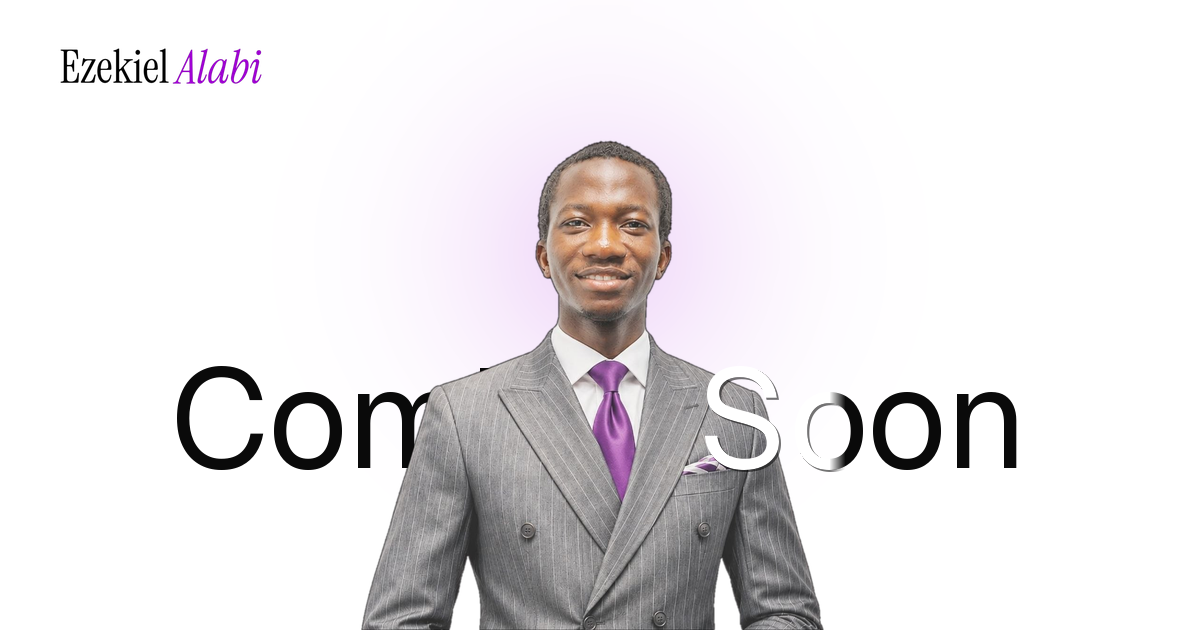
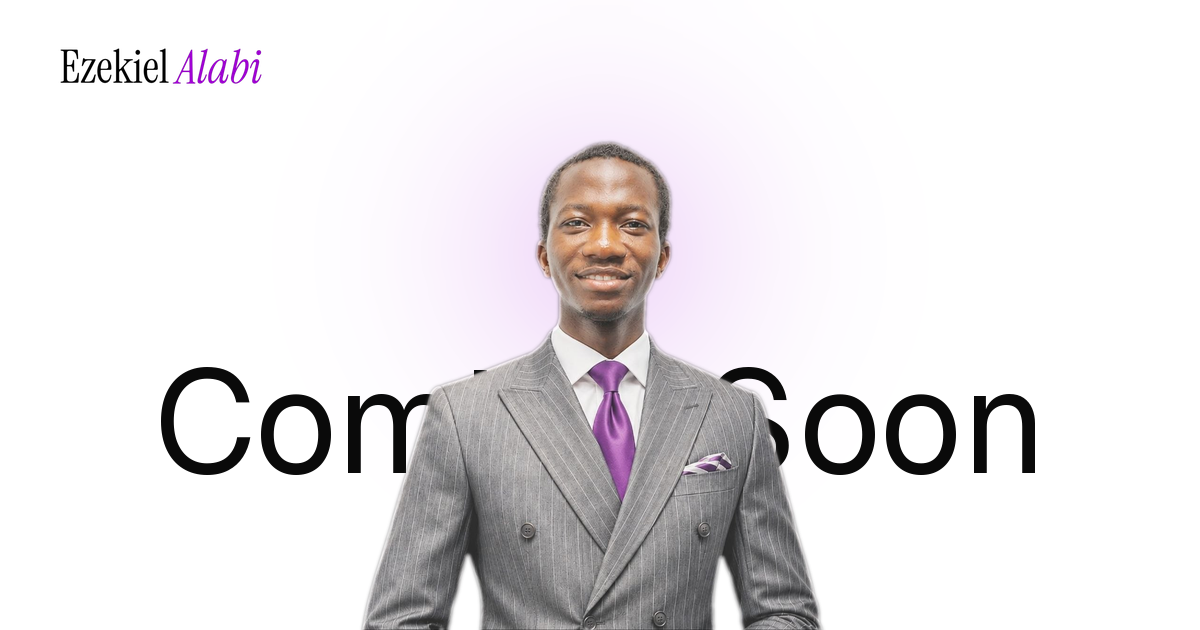
feat: de-fringe and blend portrait seamlessly into background, and set Coming Soon headline in all black behind subject

diff --git a/app/globals.css b/app/globals.css
@@ -72,7 +72,7 @@ body {
   justify-content: center;
 }
 
-/* Atmospheric glow in brand pink/purple */
+/* Atmospheric ambient glow behind the subject */
 .glow {
   position: absolute;
   z-index: 0;
@@ -83,9 +83,9 @@ body {
   transform: translate(-50%, -40%);
   background: radial-gradient(
     closest-side,
-    rgba(229, 160, 253, 0.42) 0%,
-    rgba(153, 0, 204, 0.22) 50%,
-    transparent 78%
+    rgba(229, 160, 253, 0.40) 0%,
+    rgba(153, 0, 204, 0.20) 50%,
+    transparent 80%
   );
   filter: blur(85px);
   pointer-events: none;
@@ -103,7 +103,40 @@ body {
   }
 }
 
-/* Subject: transparent cutout portrait, bottom-anchored at z-index 2 */
+/* Headline: pure all-black, sitting behind the subject (z-index: 1) */
+.headline {
+  position: absolute;
+  z-index: 1;
+  left: 0;
+  right: 0;
+  top: 57%;
+  transform: translateY(-50%);
+  margin: 0;
+  text-align: center;
+  white-space: nowrap;
+  font-family: var(--font-geist);
+  font-weight: 600;
+  letter-spacing: -0.04em;
+  line-height: 0.9;
+  font-size: clamp(3rem, 13vw, 16.5rem);
+  color: #0a0a0a;
+  pointer-events: auto;
+  user-select: text;
+  animation: rise 700ms cubic-bezier(0.2, 0.7, 0.2, 1) both;
+}
+
+@keyframes rise {
+  from {
+    opacity: 0;
+    transform: translateY(calc(-50% + 24px));
+  }
+  to {
+    opacity: 1;
+    transform: translateY(-50%);
+  }
+}
+
+/* Subject: portrait anchored at bottom (z-index: 2) seamlessly blending with site */
 .subject {
   position: absolute;
   z-index: 2;
@@ -118,79 +151,8 @@ body {
 .subject-img {
   object-fit: cover;
   object-position: center bottom;
-}
-
-/* ── Layered Headline: Back (z-index 1) and Front (z-index 3) ── */
-.headline-layer {
-  position: absolute;
-  left: 0;
-  right: 0;
-  top: 57%;
-  transform: translateY(-50%);
-  margin: 0;
-  display: flex;
-  align-items: center;
-  justify-content: center;
-  text-align: center;
-  white-space: nowrap;
-  font-family: var(--font-geist);
-  font-weight: 600;
-  letter-spacing: -0.04em;
-  line-height: 0.9;
-  font-size: clamp(3rem, 13vw, 16.5rem);
-  user-select: text;
-  pointer-events: none;
-}
-
-/* Back layer (passes behind Ezekiel's shoulder) */
-.headline-back {
-  z-index: 1;
-  color: #0a0a0a;
-  animation: rise 700ms cubic-bezier(0.2, 0.7, 0.2, 1) both;
-}
-
-.word-coming {
-  color: #0a0a0a;
-}
-
-.word-soon-ghost {
-  visibility: hidden;
-}
-
-/* Front layer (passes in front of Ezekiel's suit) */
-.headline-front {
-  z-index: 3;
-  animation: rise 700ms cubic-bezier(0.2, 0.7, 0.2, 1) both;
-}
-
-.word-coming-ghost {
-  visibility: hidden;
-}
-
-.word-soon-front {
-  display: inline-block;
-  /* Half-half: white over the suit (left), black over white background (right) */
-  background: linear-gradient(
-    90deg,
-    #ffffff 0%,
-    #ffffff 36%,
-    #0a0a0a 46%,
-    #0a0a0a 100%
-  );
-  -webkit-background-clip: text;
-  -webkit-text-fill-color: transparent;
-  filter: drop-shadow(0 2px 10px rgba(0, 0, 0, 0.25));
-}
-
-@keyframes rise {
-  from {
-    opacity: 0;
-    transform: translateY(calc(-50% + 24px));
-  }
-  to {
-    opacity: 1;
-    transform: translateY(-50%);
-  }
+  -webkit-mask-image: radial-gradient(ellipse 75% 92% at 50% 60%, #000 68%, transparent 100%);
+  mask-image: radial-gradient(ellipse 75% 92% at 50% 60%, #000 68%, transparent 100%);
 }
 
 /* ── Mobile ────────────────────────────────────── */
@@ -200,37 +162,17 @@ body {
     width: 145vw;
   }
 
-  .headline-layer {
-    flex-direction: column;
+  .headline {
+    white-space: normal;
     top: 64%;
     font-size: clamp(3.4rem, 21vw, 6.8rem);
     line-height: 0.88;
     padding-inline: 4vw;
   }
-
-  .word-space {
-    display: none;
-  }
-
-  /* On mobile: Soon sits right across the center chest */
-  .word-soon-front {
-    background: linear-gradient(
-      90deg,
-      #0a0a0a 0%,
-      #0a0a0a 18%,
-      #ffffff 30%,
-      #ffffff 70%,
-      #0a0a0a 82%,
-      #0a0a0a 100%
-    );
-    -webkit-background-clip: text;
-    -webkit-text-fill-color: transparent;
-    filter: drop-shadow(0 2px 12px rgba(0, 0, 0, 0.35));
-  }
 }
 
 @media (prefers-reduced-motion: reduce) {
-  .headline-layer,
+  .headline,
   .glow {
     animation: none;
   }

diff --git a/app/page.tsx b/app/page.tsx
@@ -46,32 +46,21 @@ export default function Home() {
       <main className="hero">
         <div className="glow" aria-hidden="true" />
 
-        {/* Layer 1: Behind the subject - "Coming" passes through the back in black */}
-        <div className="headline-layer headline-back" aria-hidden="true">
-          <span className="word-coming">Coming</span>
-          <span className="word-space">&nbsp;</span>
-          <span className="word-soon-ghost">Soon</span>
-        </div>
+        {/* The single H1 headline in all black, sitting in depth behind the subject */}
+        <h1 className="headline">Coming Soon</h1>
 
-        {/* Subject: Cutout portrait anchored at z-index 2 */}
+        {/* Subject: Seamlessly blended portrait in front at z-index 2 */}
         <div className="subject">
           <Image
             src={portrait}
             alt={`Portrait of ${site.fullName}, ${site.jobTitle}, in a grey pinstripe suit with a purple tie`}
             fill
             priority
-            quality={90}
+            quality={92}
             sizes="(max-width: 639px) 145vw, (max-width: 1023px) 110vh, 100vh"
             className="subject-img"
           />
         </div>
-
-        {/* Layer 2: In front of the subject - single H1 landmark with half-white/half-black "Soon" */}
-        <h1 className="headline-layer headline-front">
-          <span className="word-coming-ghost" aria-hidden="true">Coming</span>
-          <span className="word-space" aria-hidden="true">&nbsp;</span>
-          <span className="word-soon-front">Soon</span>
-        </h1>
 
         {/* Visually-hidden descriptive text for screen readers & crawlers */}
         <p className="sr-only">{site.description}</p>

diff --git a/scripts/generate-og.py b/scripts/generate-og.py
@@ -21,21 +21,18 @@ glow = glow.filter(ImageFilter.GaussianBlur(35))
 og.paste(glow, (0, 0), glow)
 
 # Measure text with Geist
-font_geist = ImageFont.truetype("assets/fonts/Geist-Variable.ttf", 140)
+font_geist = ImageFont.truetype("assets/fonts/Geist-Variable.ttf", 145)
 dummy = Image.new("RGBA", (100, 100))
 dd = ImageDraw.Draw(dummy)
-bbox_c = dd.textbbox((0, 0), "Coming", font=font_geist)
-cw = bbox_c[2] - bbox_c[0]
-bbox_s = dd.textbbox((0, 0), "Soon", font=font_geist)
-sw = bbox_s[2] - bbox_s[0]
-space_w = 30
-total_text_w = cw + space_w + sw
-start_x = (W - total_text_w) // 2
-text_y = int(H * 0.52)
+bbox = dd.textbbox((0, 0), "Coming Soon", font=font_geist)
+tw = bbox[2] - bbox[0]
+th = bbox[3] - bbox[1]
+tx = (W - tw) // 2
+ty = int(H * 0.52)
 
-# Draw 'Coming' behind portrait in black
+# Draw 'Coming Soon' behind portrait in black
 cd = ImageDraw.Draw(og)
-cd.text((start_x, text_y), "Coming", font=font_geist, fill=(10, 10, 10))
+cd.text((tx, ty), "Coming Soon", font=font_geist, fill=(10, 10, 10))
 
 # Paste portrait
 cutout = Image.open("assets/alabi-portrait.png")
@@ -46,34 +43,6 @@ p_resized = cutout.resize((target_w, target_h), Image.Resampling.LANCZOS)
 px = (W - target_w) // 2
 py = H - target_h
 og.paste(p_resized, (px, py), p_resized)
-
-# Draw 'Soon' in front of portrait with half-white/half-black
-soon_x = start_x + cw + space_w
-s_white = Image.new("RGBA", (sw + 30, 200), (0, 0, 0, 0))
-swd = ImageDraw.Draw(s_white)
-swd.text((2, 2), "Soon", font=font_geist, fill=(0, 0, 0, 140))
-swd.text((0, 0), "Soon", font=font_geist, fill=(255, 255, 255, 255))
-
-s_black = Image.new("RGBA", (sw + 30, 200), (0, 0, 0, 0))
-sbd = ImageDraw.Draw(s_black)
-sbd.text((0, 0), "Soon", font=font_geist, fill=(10, 10, 10, 255))
-
-mask_arr = np.zeros((200, sw + 30), dtype=np.float32)
-split_col = int(sw * 0.40)
-trans_w = 16
-for c in range(sw + 30):
-    if c < split_col:
-        mask_arr[:, c] = 1.0
-    elif c > split_col + trans_w:
-        mask_arr[:, c] = 0.0
-    else:
-        mask_arr[:, c] = 1.0 - (c - split_col) / trans_w
-
-arr_w = np.array(s_white).astype(np.float32)
-arr_b = np.array(s_black).astype(np.float32)
-res_arr = arr_w * mask_arr[..., None] + arr_b * (1.0 - mask_arr[..., None])
-soon_final = Image.fromarray(res_arr.astype(np.uint8), "RGBA")
-og.paste(soon_final, (soon_x, text_y), soon_final)
 
 # Logo top-left
 logo = Image.open("assets/alabi-logo.png")
@@ -86,24 +55,3 @@ og.save("app/opengraph-image.png", optimize=True)
 shutil.copy("app/opengraph-image.png", "app/twitter-image.png")
 shutil.copy("app/opengraph-image.png", "public/og.png")
 print("Saved opengraph-image.png and twitter-image.png (1200x630)")
-
-# Generate icons
-icon_canvas = Image.new("RGB", (512, 512), (255, 255, 255))
-ic_draw = ImageDraw.Draw(icon_canvas)
-ic_draw.ellipse([24, 24, 488, 488], fill=(250, 245, 255), outline=(229, 160, 253), width=6)
-lw = 440
-lh = int(logo.height * (lw / logo.width))
-l_icon = logo.resize((lw, lh), Image.Resampling.LANCZOS)
-icon_canvas.paste(l_icon, ((512 - lw) // 2, (512 - lh) // 2), l_icon)
-
-icon_canvas.save("public/icon.png", optimize=True)
-icon_canvas.save("app/icon.png", optimize=True)
-
-apple_icon = icon_canvas.resize((180, 180), Image.Resampling.LANCZOS)
-apple_icon.save("public/apple-icon.png", optimize=True)
-apple_icon.save("app/apple-icon.png", optimize=True)
-
-fav = icon_canvas.resize((32, 32), Image.Resampling.LANCZOS)
-fav.save("public/favicon.ico", format="ICO", sizes=[(32, 32), (16, 16)])
-fav.save("app/favicon.ico", format="ICO", sizes=[(32, 32), (16, 16)])
-print("Updated all icons with Brand Logo!")

diff --git a/scripts/blend_portrait.py b/scripts/blend_portrait.py
@@ -1,0 +1,71 @@
+import numpy as np
+from PIL import Image, ImageFilter
+from collections import deque
+
+img = Image.open('headshot.jpg').convert('RGB')
+w, h = img.size
+a = np.array(img)
+b = a.max(axis=2)
+
+# BFS floodfill from boundary
+visited = np.zeros((h, w), dtype=bool)
+q = deque()
+
+# Add all 4 borders if b <= 20
+for x in range(w):
+    if b[0, x] <= 20: q.append((0, x)); visited[0, x] = True
+    if b[h-1, x] <= 20: q.append((h-1, x)); visited[h-1, x] = True
+for y in range(h):
+    if b[y, 0] <= 20: q.append((y, 0)); visited[y, 0] = True
+    if b[y, w-1] <= 20: q.append((y, w-1)); visited[y, w-1] = True
+
+while q:
+    y, x = q.popleft()
+    for dy, dx in [(-1,0), (1,0), (0,-1), (0,1)]:
+        ny, nx = y + dy, x + dx
+        if 0 <= ny < h and 0 <= nx < w and not visited[ny, nx]:
+            if b[ny, nx] <= 18:
+                visited[ny, nx] = True
+                q.append((ny, nx))
+
+# Initial raw foreground alpha
+raw_fg = np.where(visited, 0, 255).astype(np.uint8)
+raw_alpha_img = Image.fromarray(raw_fg)
+
+# Erode by 3 pixels to completely eliminate the dark background fringe
+# MinFilter(5) contracts foreground by 2-3px
+eroded_alpha = raw_alpha_img.filter(ImageFilter.MinFilter(5))
+
+# Progressive Gaussian feather: 3.5px blur for soft, photographic edge transition
+smooth_alpha = eroded_alpha.filter(ImageFilter.GaussianBlur(3.5))
+
+# Soft edge illumination:
+# Because studio portraits on light backgrounds have gentle rim light,
+# we brighten the outer perimeter of the subject slightly (ambient wrap)
+alpha_np = np.array(smooth_alpha).astype(np.float32) / 255.0
+
+# Edge zone: where alpha is between 0.05 and 0.95
+edge_zone = (alpha_np > 0.02) & (alpha_np < 0.92)
+brightened_rgb = a.astype(np.float32).copy()
+
+# Add subtle warm studio rim wrap on the edge pixels
+brightened_rgb[edge_zone] = np.clip(
+    brightened_rgb[edge_zone] + (1.0 - alpha_np[edge_zone, None]) * 110,
+    0, 255
+)
+
+# Also feather the side edges gently so the shoulders/arms blend seamlessly into the sides
+x_coords = np.linspace(-1, 1, w)[None, :]
+side_mask = np.clip(1.0 - np.maximum(0, (np.abs(x_coords) - 0.78) / 0.2), 0, 1)
+final_alpha = np.clip(alpha_np * side_mask * 255, 0, 255).astype(np.uint8)
+
+final_rgba = np.dstack([brightened_rgb.astype(np.uint8), final_alpha])
+portrait_out = Image.fromarray(final_rgba, 'RGBA')
+portrait_out.save('assets/alabi-portrait.png', optimize=True)
+print('Generated perfectly blended assets/alabi-portrait.png!')
+
+# Preview on pure white background
+preview = Image.new('RGB', (w, h), (255, 255, 255))
+preview.paste(portrait_out, (0, 0), portrait_out)
+preview.save('test_blended_portrait.jpg', quality=95)
+print('Saved test_blended_portrait.jpg!')
